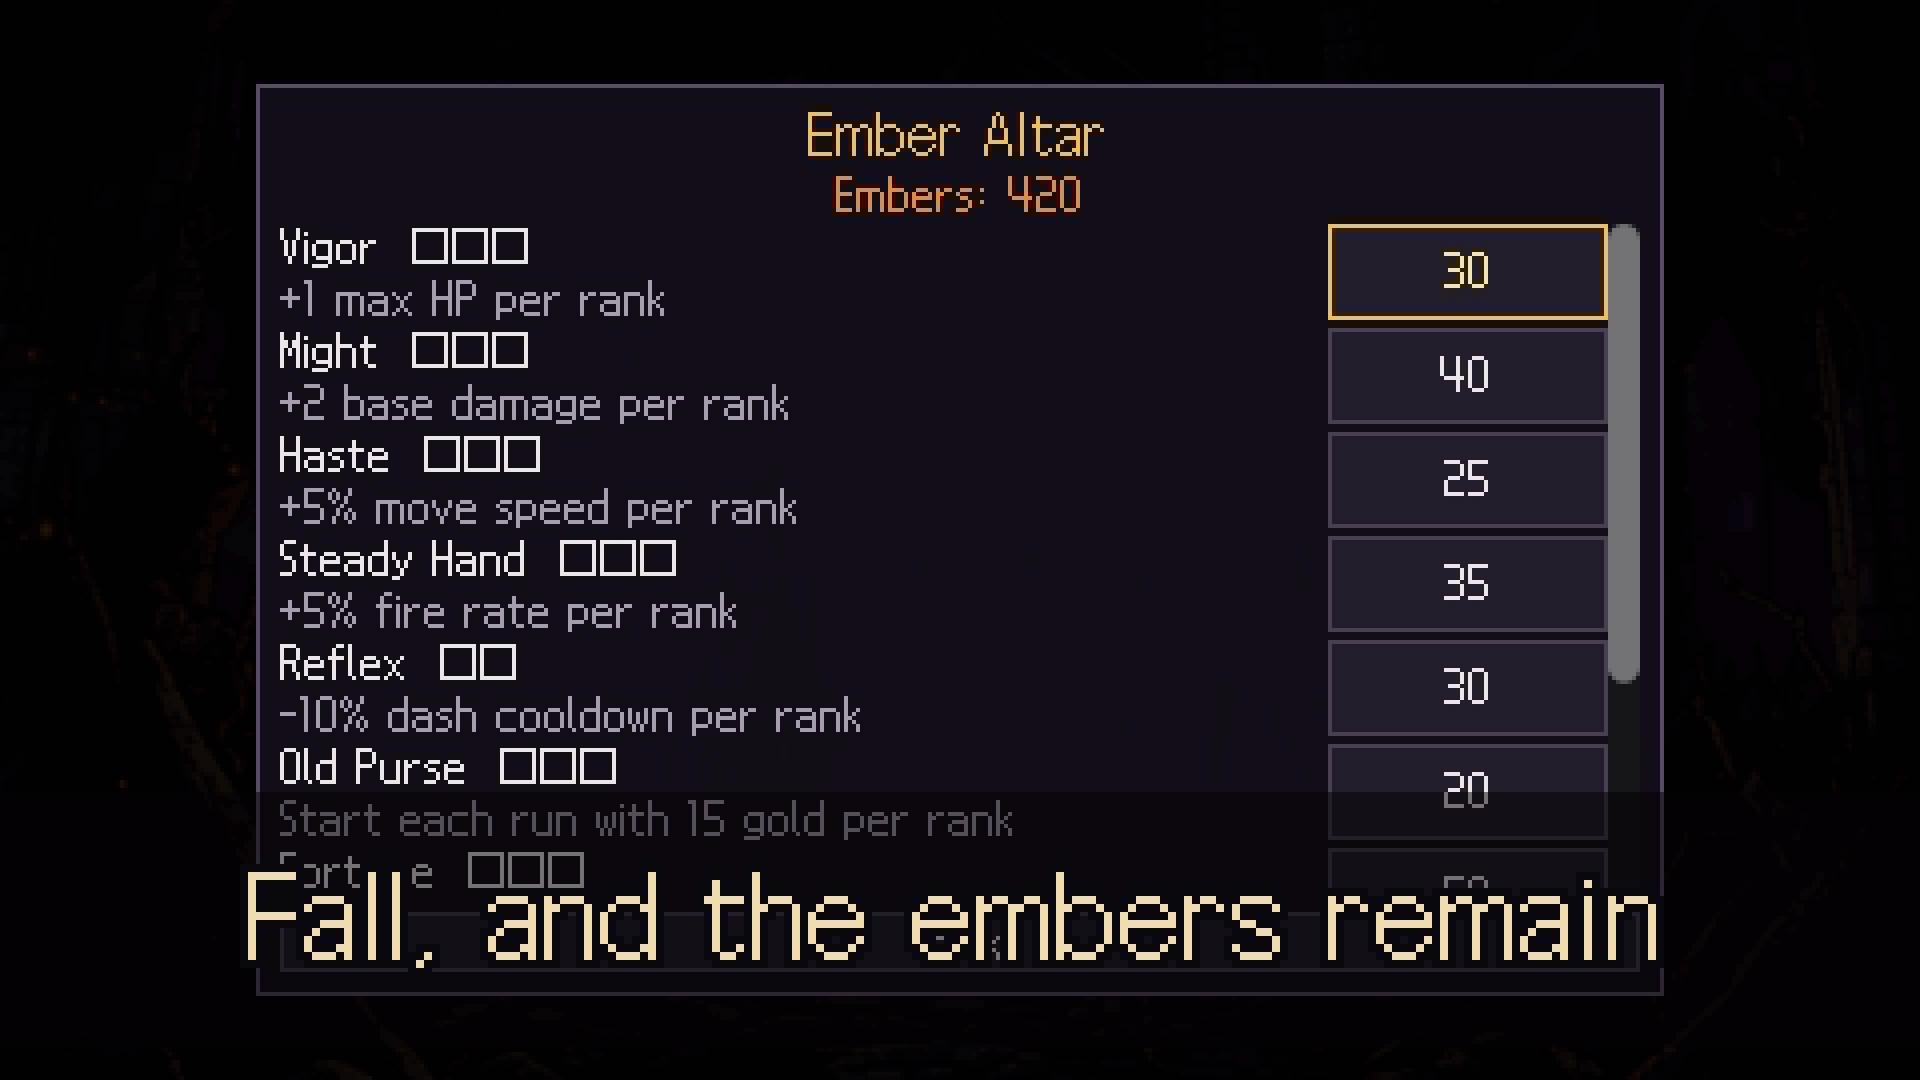
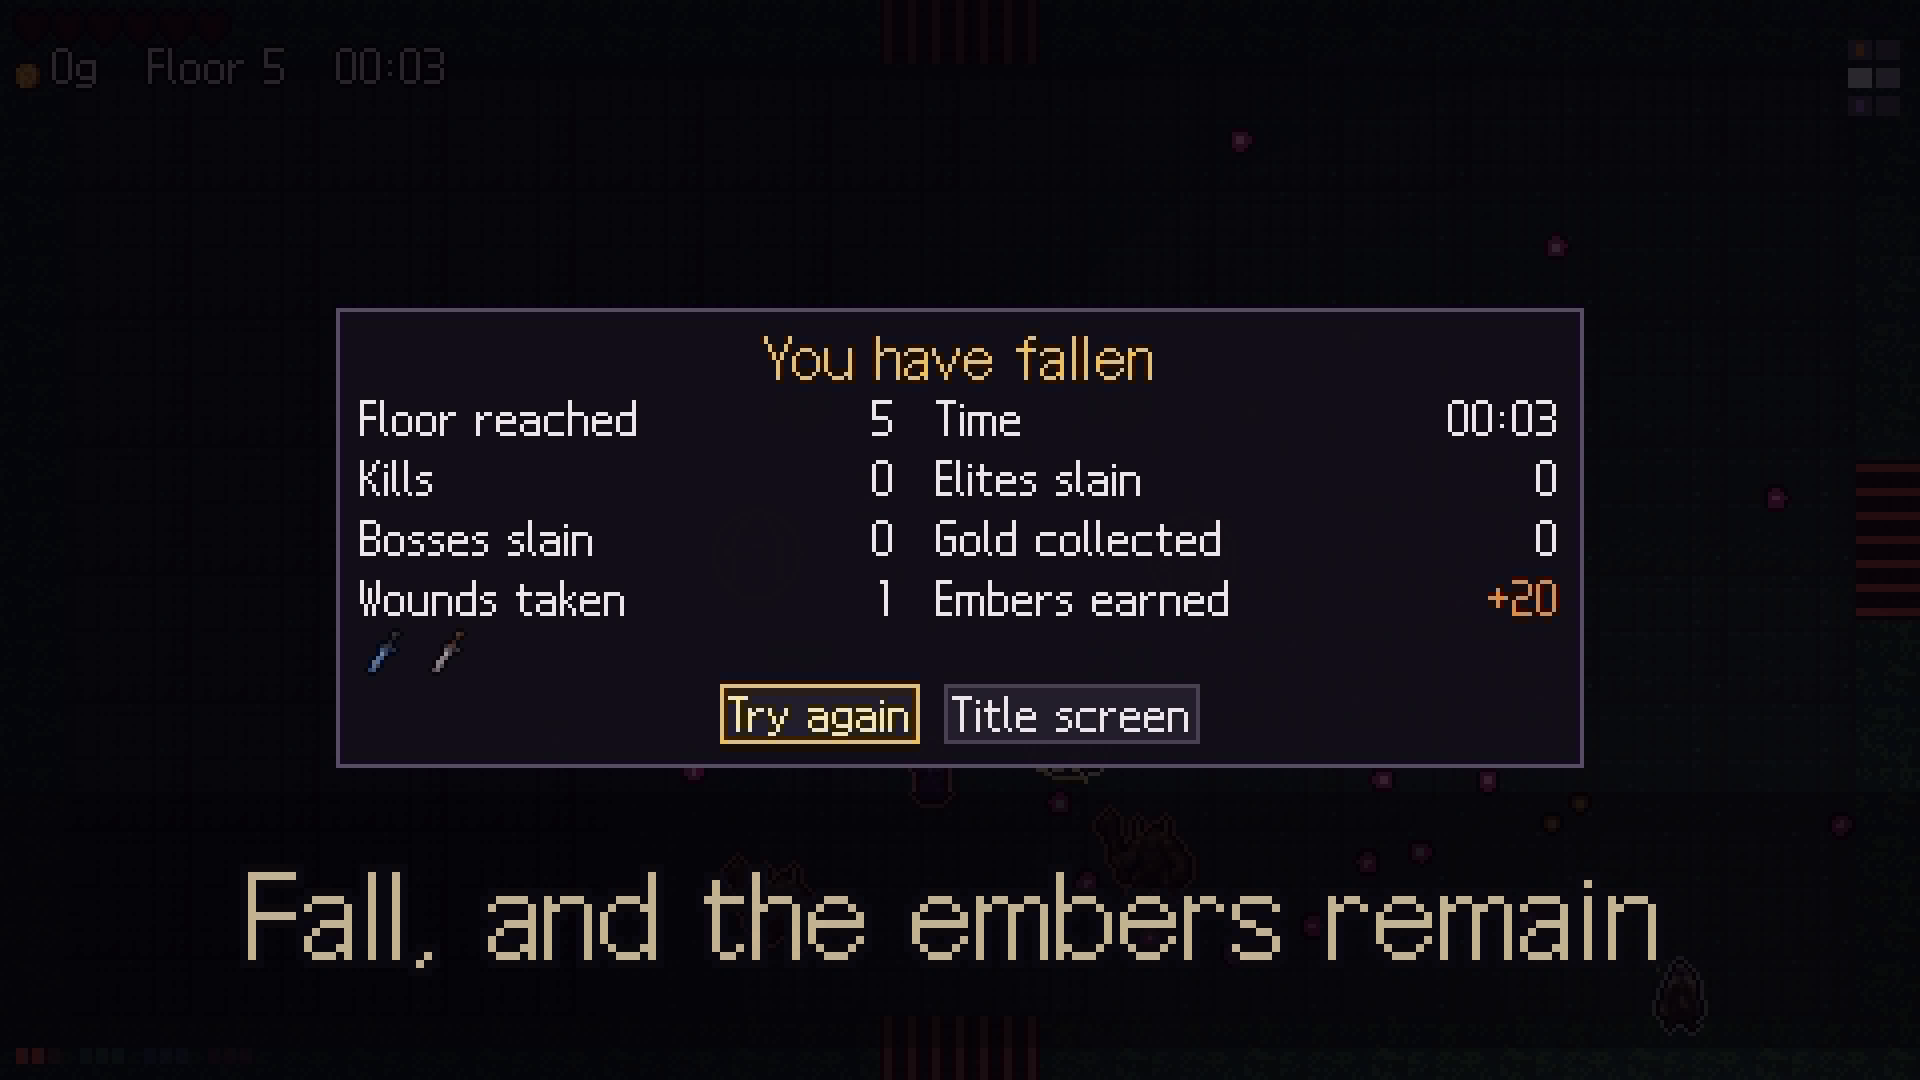
fix: 잿불 장면 자막이 잿불 제단 메뉴 글자와 겹치지 않게
자막 "쓰러져도 잿불은 남는다"는 사망→결과 화면(+20 잿불) 컷에만 깔고,
화면을 메뉴가 거의 다 덮는 잿불 제단 컷은 자막 없이 보여 준다.
사망 컷 2.6→3.0초, 제단 컷 2.4→2.0초(장면 길이 5초 유지). 스틸은 자막 구간 안에서 뽑는다.

diff --git a/tools/forge/src/trailer.rs b/tools/forge/src/trailer.rs
@@ -17,10 +17,17 @@ const SCENES: [(&str, &str, &str, &[Cut]); 7] = [
     ("03_blessing", "22가지 축복으로 매번 다른 빌드", "22 blessings, a new build each run", &[("bless", "menu", -1.4, 3.9), ("bless", "fight", 0.2, 2.1)]),
     ("04_deeper", "깊어질수록 거세지는 어둠", "The deeper, the darker", &[("shop", "", 0.3, 2.7), ("elite", "", 0.6, 3.0), ("treasure", "", 0.0, 2.3)]),
     ("05_wardens", "세 층마다 기다리는 문지기", "A warden waits every third floor", &[("boss3", "", 1.0, 3.4), ("boss6", "", 1.0, 3.3), ("boss9", "", 1.0, 3.3)]),
-    ("06_embers", "쓰러져도 잿불은 남는다", "Fall, and the embers remain", &[("death", "death", -0.6, 2.6), ("altar", "", 0.4, 2.4)]),
+    ("06_embers", "쓰러져도 잿불은 남는다", "Fall, and the embers remain", &[("death", "death", -0.6, 3.0), ("altar", "", 0.4, 2.0)]),
     ("07_logo", "Hollow Vigil · 출시 예정", "Hollow Vigil · Coming soon", &[("logo", "", 0.3, 4.0)]),
 ];
 const FADE: f64 = 0.25;
+/// 화면을 메뉴 패널이 거의 다 덮는 클립: 자막이 글자와 겹치므로 장면 자막은 그 컷 앞에서 끝낸다
+const NO_CAPTION: [&str; 1] = ["altar"];
+
+/// 장면 시작부터 자막이 덮는 길이
+fn caption_len(cuts: &[Cut]) -> f64 {
+    cuts.iter().take_while(|c| !NO_CAPTION.contains(&c.0)).map(|c| c.3).sum()
+}
 
 fn run(cmd: &mut Command) -> bool {
     cmd.status().map(|s| s.success()).unwrap_or(false)
@@ -84,7 +91,7 @@ pub fn run_all(root: &Path, fresh: bool) {
         let mut t = 0.0;
         for s in &SCENES {
             let d: f64 = s.3.iter().map(|c| c.3).sum();
-            let ok = run(Command::new("ffmpeg").args(["-loglevel", "error", "-y", "-ss", &format!("{:.2}", t + d * 0.55), "-i"]).arg(&file)
+            let ok = run(Command::new("ffmpeg").args(["-loglevel", "error", "-y", "-ss", &format!("{:.2}", t + (d * 0.55).min(caption_len(s.3) - 0.5)), "-i"]).arg(&file)
                 .args(["-frames:v", "1"]).arg(stills.join(format!("{}.png", s.0))));
             if !ok {
                 fail("스틸 추출 실패");
@@ -102,7 +109,7 @@ fn edit(root: &Path, clips: &Path, caps: &Path, file: &Path) {
     let mut t = 0.0;
     let mut cap_at = vec![];
     for (si, s) in SCENES.iter().enumerate() {
-        cap_at.push((t, t + s.3.iter().map(|c| c.3).sum::<f64>()));
+        cap_at.push((t, t + caption_len(s.3)));
         for (ci, &(clip, cue, off, dur)) in s.3.iter().enumerate() {
             let dir = clips.join(clip);
             let c = cues(&dir);
